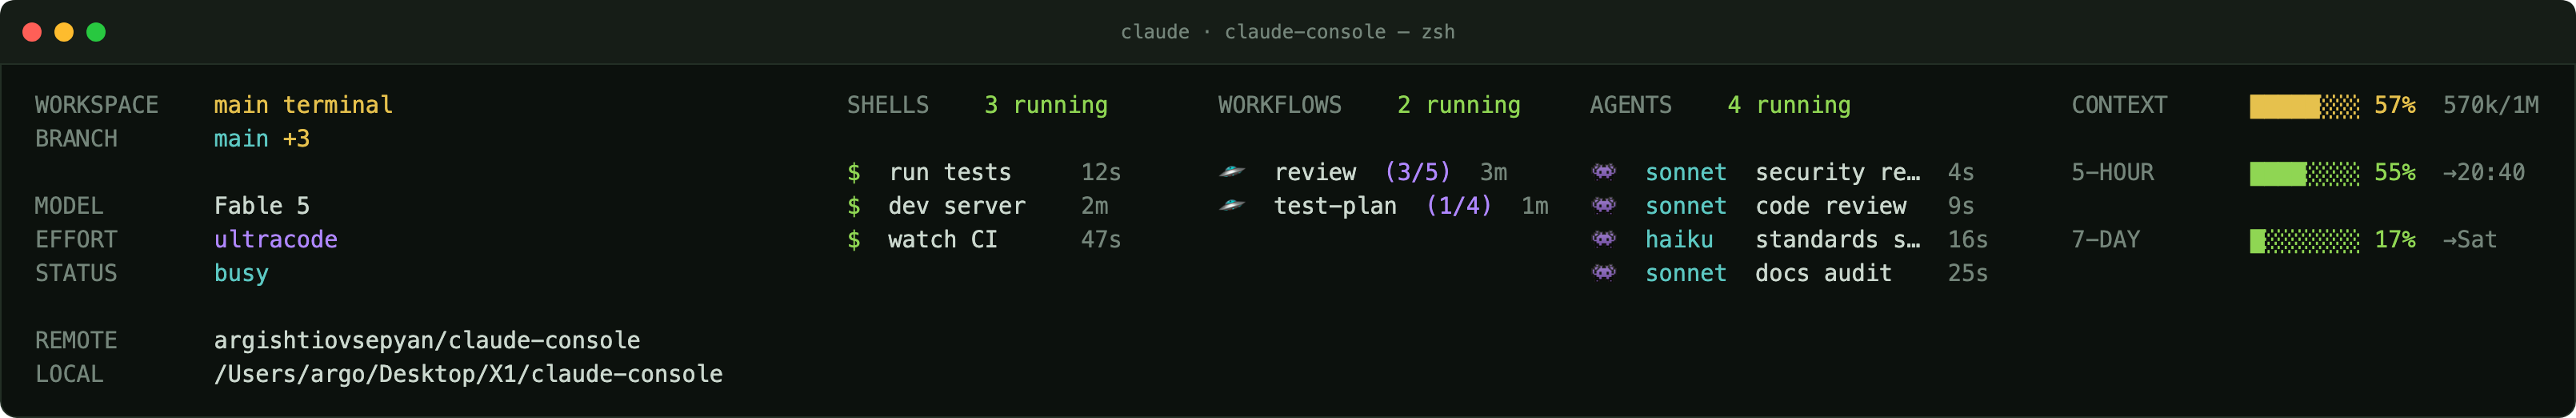
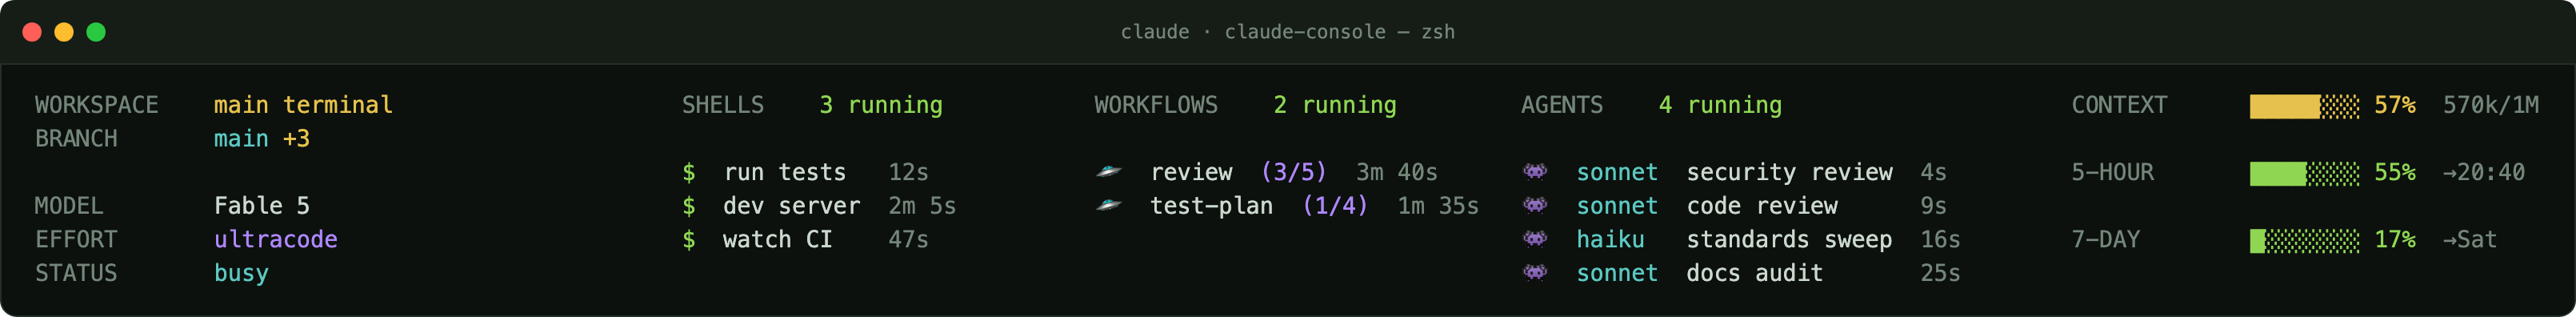
feat: remove REMOTE and LOCAL rows (user pref) + remaining audit fixes
- REMOTE + LOCAL rows removed: the rail now ends at STATUS (workspace,
  branch, model, effort, status only). Simplifies the footer geometry;
  grid5 liveRows is a fixed 6-row cap (no rail-geometry/rowGap coupling,
  resolving the rowGap liveRows finding), gauges stack airy under CONTEXT.
  Dropped the now-dead LOCAL path helpers (shortPath/abbreviateHome/
  truncateMiddleDisplay import). Hero screenshot + README updated.
- audit LOW/MED: pickSession exact-id beats a prefix match; install prunes
  app files removed from src since; statusline lastActivityMs is null (not
  'now') when unknown, matching cli.mjs

diff --git a/README.md b/README.md
@@ -28,7 +28,7 @@ At full width the HUD is five columns. Each live kind — shells, workflows, age
 
 | Column | Shows |
 | --- | --- |
-| **Rail** | workspace (or worktree), branch + dirty count, model, effort, status, remote, and the working directory |
+| **Rail** | workspace (or worktree), branch + dirty count, model, effort, and status |
 | **`$` shells** | running shell commands — what each is for and how long it's run |
 | **🛸 workflows** | running orchestrations with progress `(done/total)` and age |
 | **👾 agents** | running subagents — the model each runs, its task, and age |